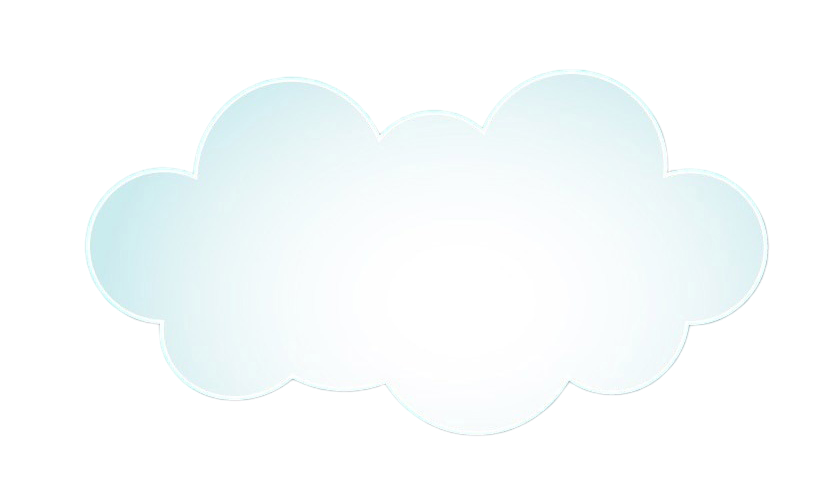
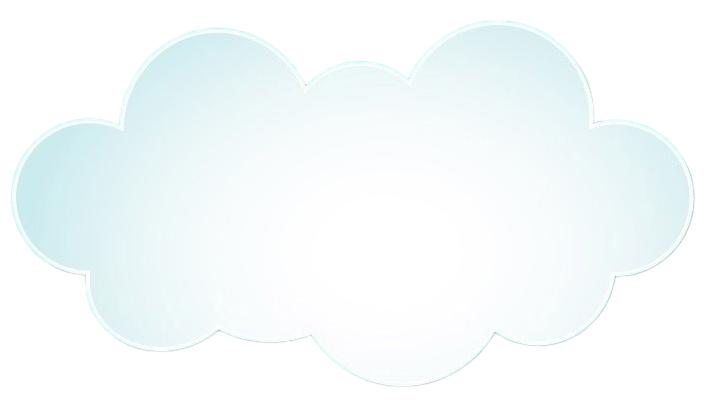
feat(awards): update cloud assets and enhance styles for award cards

diff --git a/styles/buttons.css b/styles/buttons.css
@@ -143,12 +143,17 @@
 }
 
 /* --- Award Cloud Cards --- */
+#award-stars-student-list {
+    overflow: visible;
+}
+
 .student-cloud-card {
     position: relative;
     isolation: isolate;
     background: transparent;
     /* top: room for avatar overhang; bottom: reserved space for abs-positioned star buttons */
-    padding: 40px 1.75rem 5.5rem 1.75rem;
+    padding: 56px 1.75rem 6rem 1.75rem;
+    min-height: 28.5rem;
     display: flex;
     flex-direction: column;
     gap: 0.75rem;
@@ -159,18 +164,20 @@
 /* Static cloud art background injected as first child */
 .cloud-bg-svg {
     position: absolute;
-    inset: 0;
+    inset: -4.2rem -1.9rem -4.2rem -1.9rem;
     width: 100%;
     height: 100%;
     z-index: 0;
     pointer-events: none;
     filter: drop-shadow(0 5px 10px rgba(0, 0, 0, 0.13));
+    transform: scale(1.45);
+    transform-origin: 50% 32%;
 }
 
 .cloud-bg-asset {
-    background-position: center 56%;
+    background-position: center 32%;
     background-repeat: no-repeat;
-    background-size: 100% auto;
+    background-size: contain;
 }
 
 .cloud-bg-asset.award-cloud-a { background-image: url('../assets/award-clouds/cloud-a.png'); }

diff --git a/templates/app/tabs/award.js b/templates/app/tabs/award.js
@@ -36,7 +36,7 @@ export const awardTabHTML = `
                         </button>
                     </div>
 
-                    <div id="award-stars-student-list" class="mt-6 grid grid-cols-1 md:grid-cols-2 gap-6 items-start">
+                    <div id="award-stars-student-list" class="mt-6 grid grid-cols-1 md:grid-cols-2 gap-x-10 gap-y-0 items-start">
                         <p
                             class="text-center text-gray-700 bg-white/70 backdrop-blur-sm p-4 rounded-2xl text-lg col-span-full">
                             Please select a class to award stars.</p>

diff --git a/styles/effects.css b/styles/effects.css
@@ -30,7 +30,7 @@
    Animation is pure GPU transform+opacity — the cloud SVG filter is never re-triggered. */
 .star-selector-container {
     position: absolute;
-    bottom: 1.1rem;
+    bottom: 1.25rem;
     left: 50%;
     transform: translateX(-50%) translateY(16px);
     opacity: 0;

diff --git a/styles/leaderboard.css b/styles/leaderboard.css
@@ -12,6 +12,7 @@
 .student-cloud-card .card-content-wrapper {
     position: relative;
     z-index: 1;
+    padding-bottom: 5rem;
     transition: all 0.3s ease-out;
 }
 .student-cloud-card.is-absent .card-content-wrapper,
